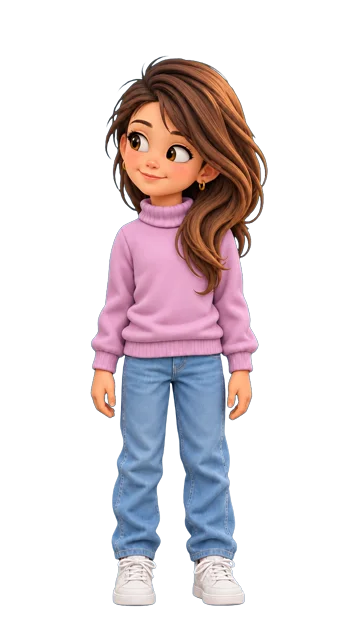
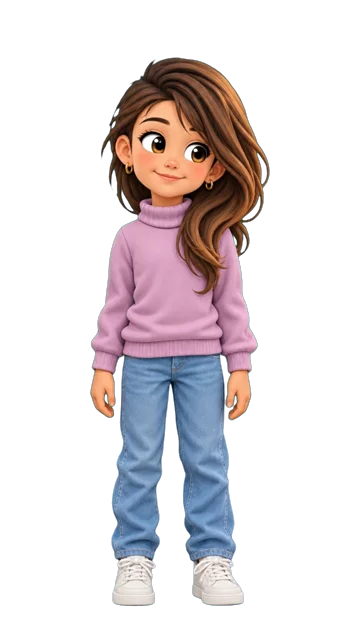
Арбель и Шакед жуют по-настоящему: анимация из кадров их видео «говорит» (вперёд и назад — кончается в позе картинки), дожёвывают, прежде чем снова смотреть на яблоко; Лаэль смотрит на Беэри — кадр из её видео вместо сгенерированной картинки

diff --git a/js/kids.js b/js/kids.js
@@ -2,7 +2,8 @@
    Картинки — img/kids/: <имя>.webp (улыбается), <имя>_open.webp (рот открыт — ест),
    <имя>_look.webp (смотрит на яблоко, серьёзно, рот прямой — пока режут),
    <имя>_glance.webp (повернул голову: Лаэль и Беэри — друг к другу, Арбель и Шакед — на зрителя; пока ждут нажатия),
-   lael_right.webp (Лаэль смотрит направо — кадр из её «говорит», рот закрыт).
+   lael_right.webp (Лаэль смотрит направо — кадр из её «говорит», рот закрыт); у Лаэль _glance — кадр из её «стоит».
+   arbel_chew.webp, shaked_chew.webp — жуёт (1,9 с): начало их «говорит» вперёд и назад, поэтому кончается в позе картинки.
    Анимации по 3 с: <имя>_talk.webp (говорит и показывает рукой — один раз за сцену, {hands: true}),
    <имя>_talk2.webp (говорит: голова и рот, руки спокойно), <имя>_idle.webp (молчит: моргает, дышит),
    <имя>_lookidle.webp (смотрит на яблоко и моргает), <имя>_laugh.webp (смеётся), lael_cut.webp (Лаэль режет).
@@ -18,7 +19,7 @@
      KIDS.play(имя, анимация), KIDS.lean(имя, градусы), KIDS.mouth(имя, открыт), KIDS.chew(имя), KIDS.el(имя), KIDS.clear() */
 const KIDS = (() => {
   const FIG = { arbel: 0.0703, beeri: 0.0347, lael: 0.079, shaked: 0.0729 };
-  const FOOT = 1092 / 1152, FLAP_MS = 150, ANIM_MS = 3000, IDLE_MS = [8000, 16000], FADE_MS = 300;
+  const FOOT = 1092 / 1152, FLAP_MS = 150, ANIM_MS = 3000, CHEW_MS = 23 / 12 * 1000, IDLE_MS = [8000, 16000], FADE_MS = 300;
   const GLANCE_EVERY = [6000, 10000], GLANCE_HOLD = [900, 1200];   // ждут: раз в 6–10 с — короткий взгляд (около секунды)
   // ждут: Арбель и Шакед вместе — на зрителя; Лаэль и Беэри — друг на друга; Лаэль — направо (не одно и то же два раза подряд)
   const GLANCES = [[['arbel', '_glance'], ['shaked', '_glance']], [['lael', '_glance'], ['beeri', '_glance']], [['lael', '_right']]];
@@ -41,18 +42,19 @@ const KIDS = (() => {
     // анимации — файлами в память один раз; каждый показ — новый адрес, чтобы анимация шла с первого кадра
     for (const k of ANIMS) load(n, k);
     if (n === 'lael') load(n, 'cut');
+    if (n === 'arbel' || n === 'shaked') load(n, 'chew');
     new Image().src = src(n, '_glance'); if (n === 'lael') new Image().src = src(n, '_right');
     idleLater(n);
     return im;
   }
   let seq = 0;
   /* один круг анимации (3 с). false — если её перебила другая (тогда картинку не трогаем) */
-  async function play(n, k) {
+  async function play(n, k, ms = ANIM_MS) {
     const im = el[n], s = st[n], b = await load(n, k);
     if (!im || !b || RM) return false;
     const id = ++seq; s.cur = id;
     const url = URL.createObjectURL(b); im.src = url;
-    await sleep(ANIM_MS);
+    await sleep(ms);
     URL.revokeObjectURL(url);
     if (s.cur !== id || !im.isConnected) return false;
     s.cur = 0; im.src = still(n); return true;
@@ -74,6 +76,7 @@ const KIDS = (() => {
   function look(names, on) {                       // смотрят на яблоко (серьёзно) — или снова улыбаются
     for (const n of names) {
       const s = st[n]; if (!s || s.look === on) continue;
+      if (s.chewing) { s.look = on; continue; }   // дожёвывает; потом сам посмотрит куда нужно
       s.look = on; s.cur = ++seq;                  // перебивает анимацию; круг «говорит» прекратится
       fadeTo(n, still(n)); s.cur = 0;
     }
@@ -85,7 +88,7 @@ const KIDS = (() => {
     gT = setTimeout(() => {
       let i; do i = Math.floor(Math.random() * GLANCES.length); while (i === gLast);
       const g = GLANCES[i];
-      if (g.every(([n]) => el[n] && !st[n].talkN)) {   // кто говорит — не отвлекается (моргание прерывается)
+      if (g.every(([n]) => el[n] && !st[n].talkN && !st[n].chewing)) {   // кто говорит — не отвлекается (моргание прерывается)
         gLast = i; const ms = GLANCE_HOLD[0] + Math.random() * (GLANCE_HOLD[1] - GLANCE_HOLD[0]);
         for (const [n, s] of g) glance(n, s, ms);
       }
@@ -129,7 +132,11 @@ const KIDS = (() => {
     return im.animate([{ transform: 'rotate(0)' }, { transform: `rotate(${deg}deg) translateY(4px)`, offset: 0.3 },
       { transform: `rotate(${deg}deg) translateY(4px)`, offset: 0.7 }, { transform: 'rotate(0)' }], { duration: ms * K, easing: 'ease-in-out' }).finished.catch(() => {});
   }
-  async function chew(n) {                         // жуёт: рот закрыт — открыт, три раза
+  async function chew(n) {                         // жуёт: анимация из кадров видео; без неё — рот закрыт — открыт, три раза
+    if (!RM && await load(n, 'chew')) {
+      for (const t of [0, 600, 1200]) setTimeout(() => el[n] && sfx('chomp'), t);
+      st[n].chewing = true; await play(n, 'chew', CHEW_MS); if (st[n]) st[n].chewing = false; return;
+    }
     for (let i = 0; i < 3 && el[n]; i++) { mouth(n, false); sfx('chomp'); await wait(170); mouth(n, true); await wait(170); }
     mouth(n, false);
   }
